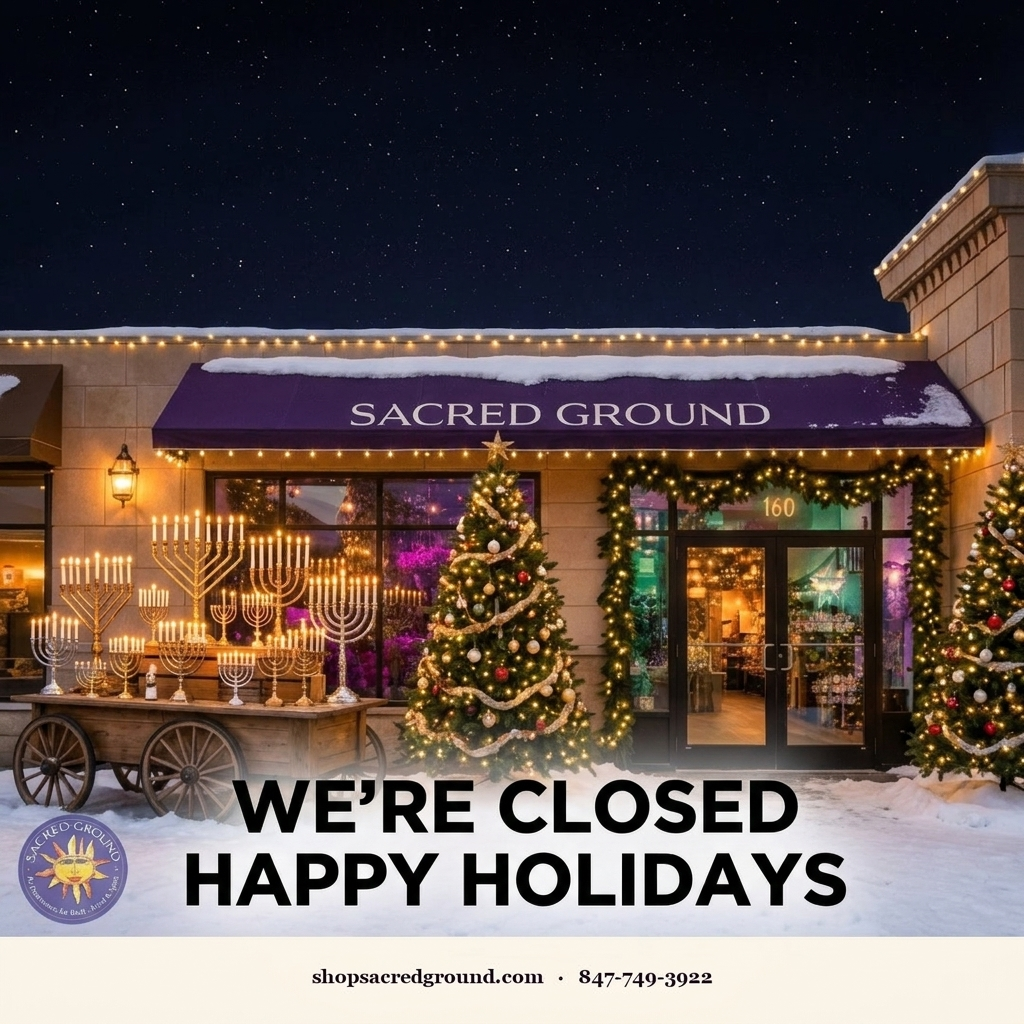
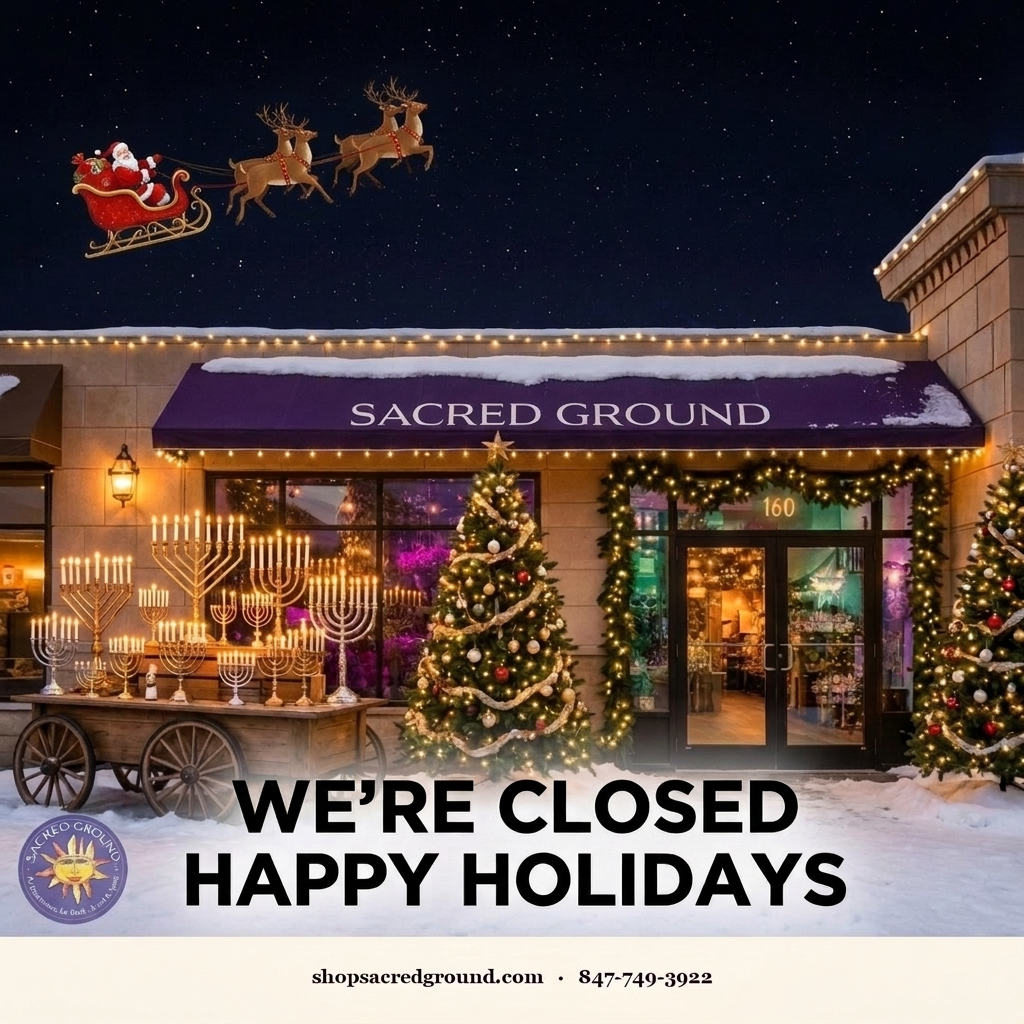
Put Santa in the sky on the Christmas TEC still.

Changed region(s): [[0.0625, 0.0625, 0.4375, 0.25], [0.8125, 0.5938, 0.8438, 0.625]]

diff --git a/WORK-LOG.md b/WORK-LOG.md
@@ -1,3 +1,8 @@
+## 2026-10-08 — Christmas TEC still now has Santa in the sky
+
+Founder: put Santa flying on the Christmas still. TEC **30304** thumb is
+**30333**. 9am clip **30312** unchanged. Sep 11–13 cards unchanged.
+
 ## 2026-10-08 — Holiday closed stays 9am only for now
 
 Founder: leave Thanksgiving / Christmas / New Year on the morning slot.
